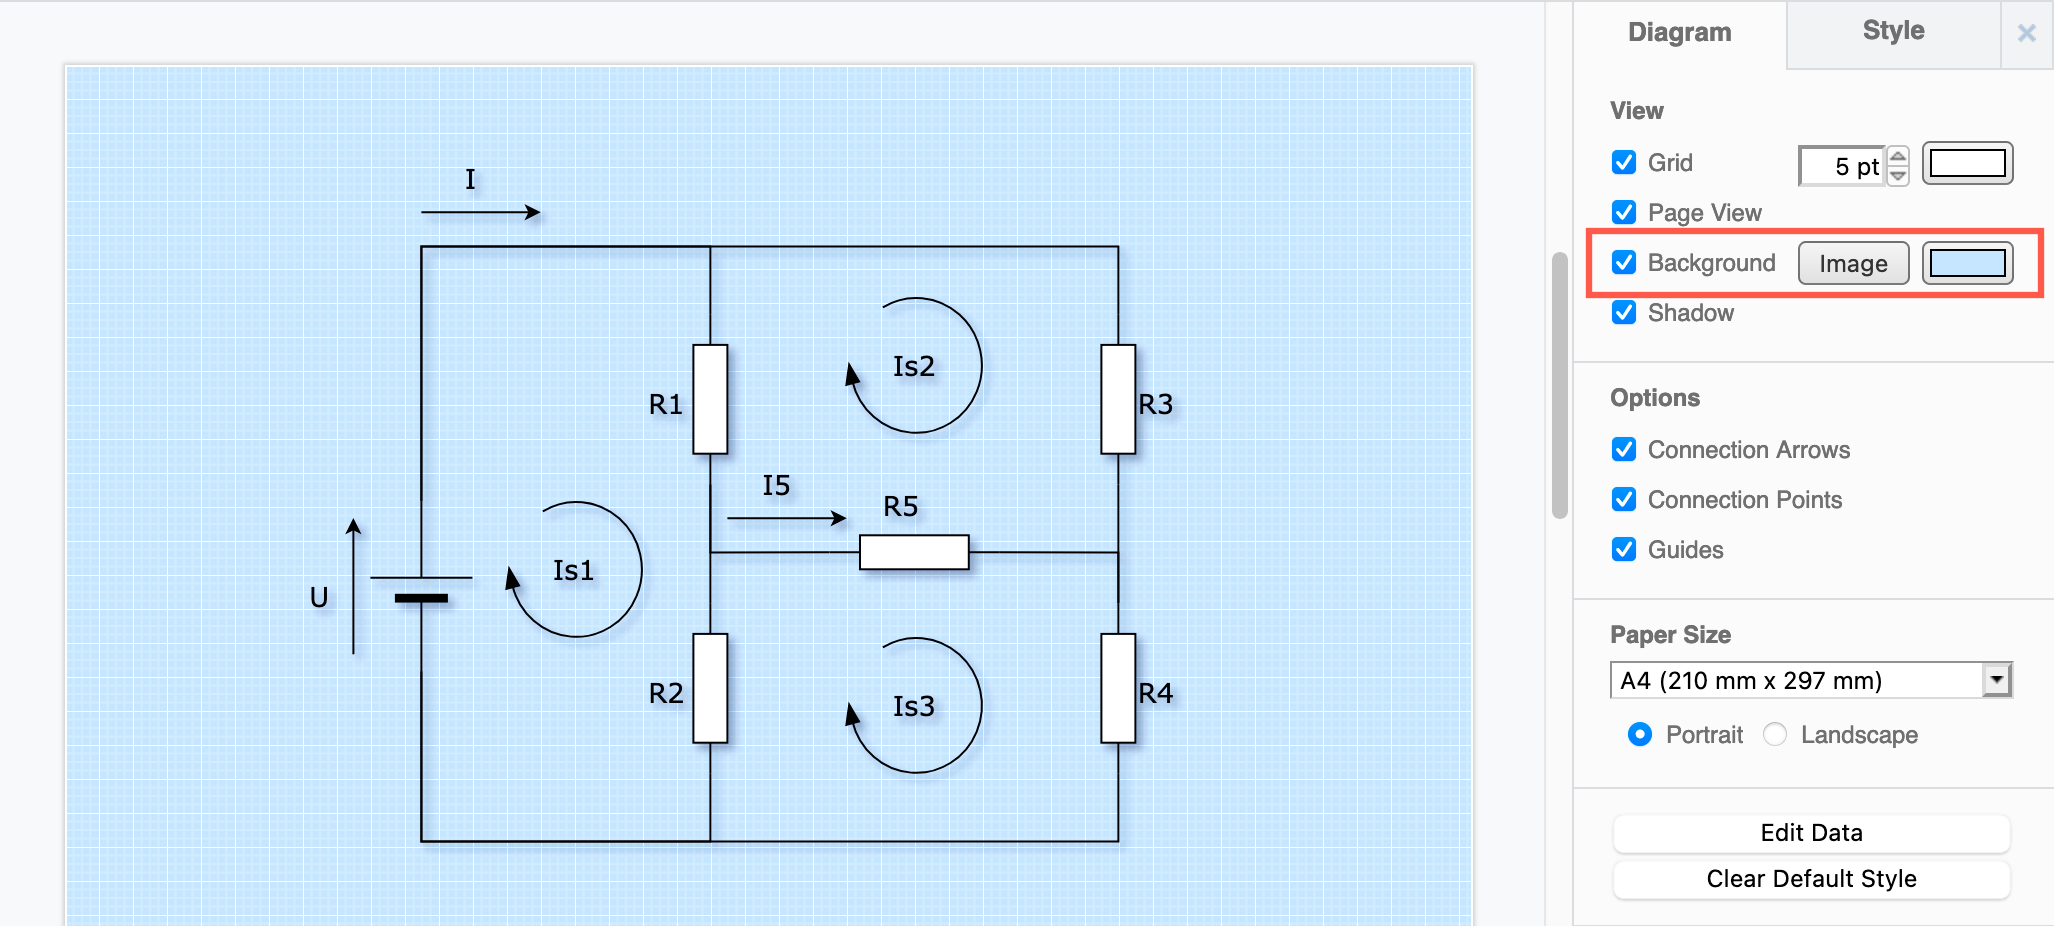
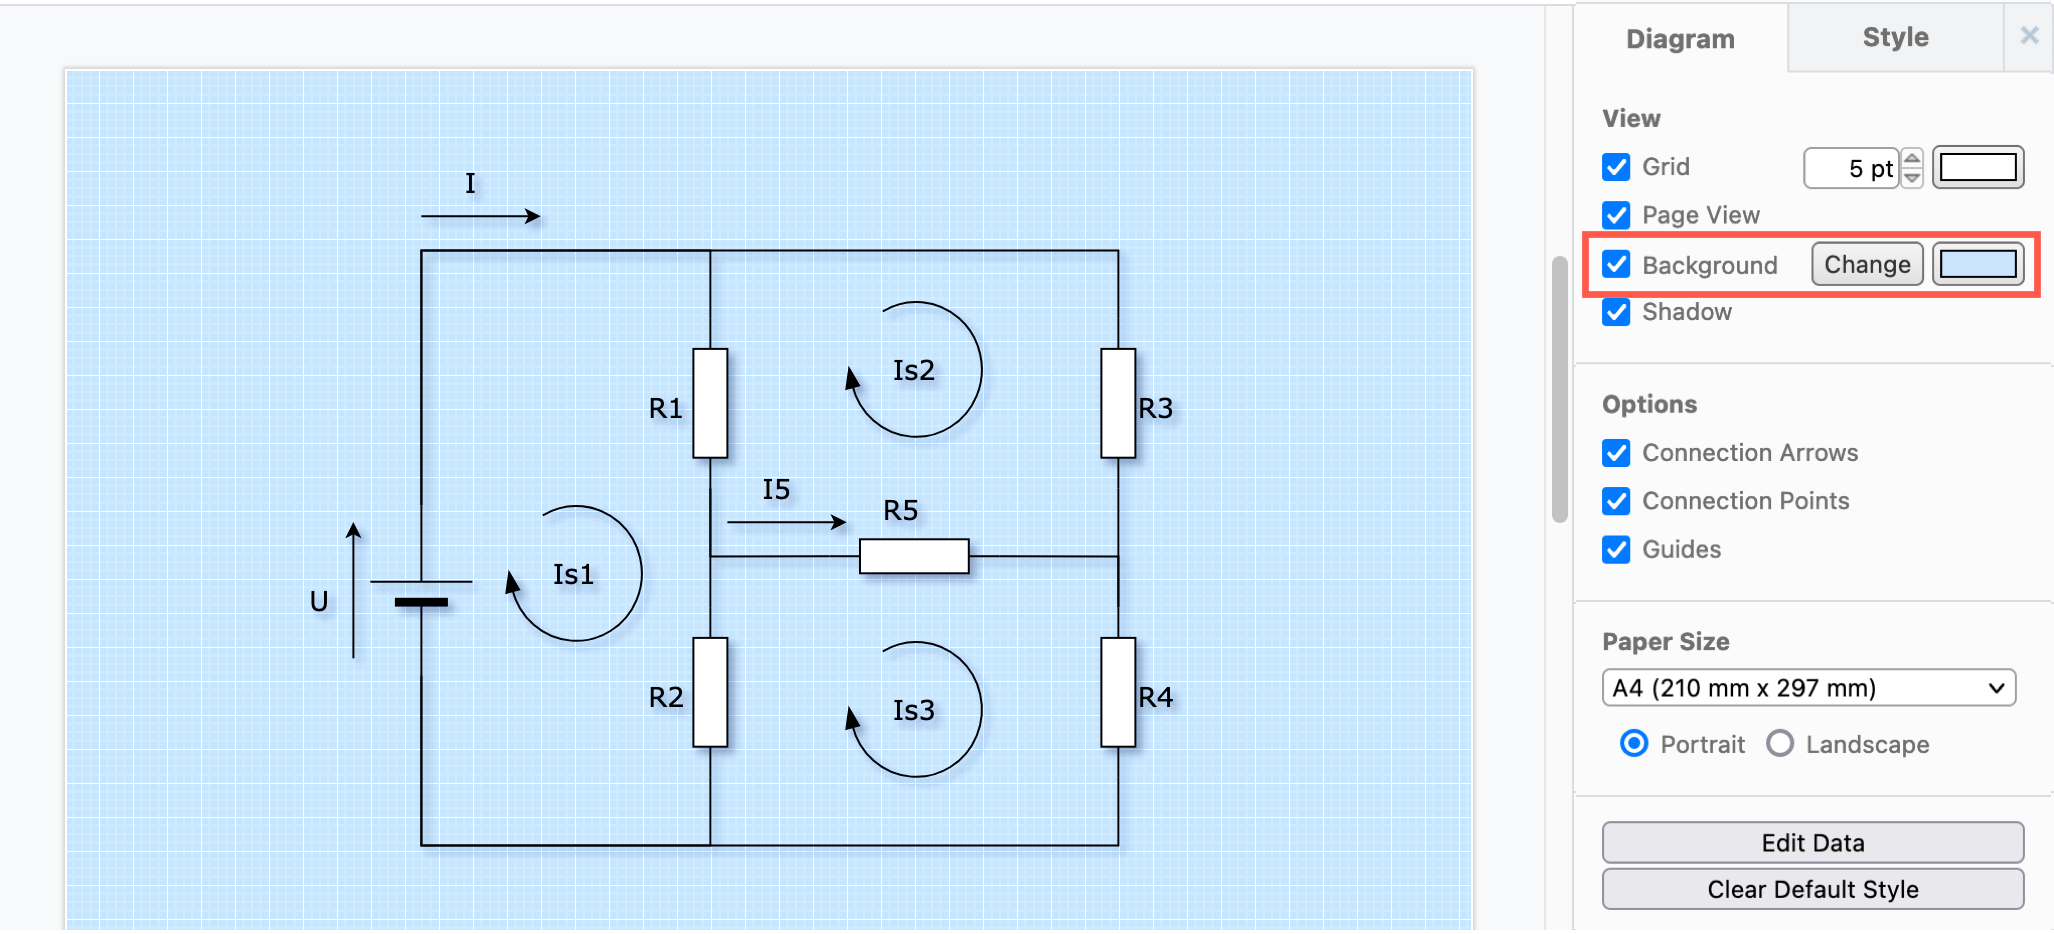
FAQ updates

diff --git a/doc/faq/background-diagram.md b/doc/faq/background-diagram.md
@@ -1,0 +1,33 @@
+---
+title: Use a diagram page as a background image
+layout: page
+faq: true
+categories: [Features]
+---
+
+You can set your diagram background to be a [solid colour](/doc/faq/background-colour.html), an [image file](/doc/faq/background-image.html) or one of the pages in your diagram.
+
+This is useful when you have a repeating design, logo or watermark that you want to continue throughout all of your diagram pages when they are embedded or printed. It can also be used to display fixed user interface elements so you can easily mockup various layouts without needing to add them to every diagram page.
+
+**Note:** Your diagram must have at least two pages for this option to appear. See how to [work with multi-page diagrams](blog/multiple-page-diagrams.html).
+
+1. Create your background image on one diagram page. Any interactive elements, such as [links](/doc/faq/custom-links.html) and [tooltips](/doc/faq/tooltips.html), that are in the diagram page that you use as a background will not be available.
+<br /><img src="/assets/img/blog/background-diagram-add-page.png" style="width=100%;max-width:600px;height:auto;" alt="Add another page to your diagram">
+2. Add another diagram page by clicking ``+`` at the bottom of the drawing canvas.
+3. On the new diagram page, make sure nothing is selected to see the _Diagram_ tab in the format panel on the right.
+<br /><img src="/assets/img/blog/background-option.png" style="width=100%;max-width:150px;height:auto;" alt="Click Change next to Background to open a dialog where you can select the background diagram page">
+4. Select the checkbox next to the list - this will only appear if your diagram has two or more pages - and select the diagram page in the list that you want to use as the background image.
+<br /><img src="/assets/img/blog/background-diagram-page-set.png" style="width=100%;max-width:250px;height:auto;" alt="Open the background image settings and select the diagram page you want to use as the background">
+5. The selected diagram page will be converted to an image and placed as the background of your current page. You can now add shapes over the background.
+<br /><img src="/assets/img/blog/background-diagram-example-mockup.png" style="width=100%;max-width:400px;height:auto;" alt="Add shapes on top of the background image">
+
+Shapes, connectors and text in the background can not be selected, tooltips that were in the background diagram will not appear when you hover, and links are not available. 
+
+## Do more with background diagrams
+
+Add text labels with placeholders which automatically update depending on their context in your diagram, and use a background diagram to provide the non-dynamic aspects. This is good for adding dates, page numbers, version numbers and more. 
+
+<a href="https://app.diagrams.net/?lightbox=1&highlight=0000ff&edit=_blank&layers=1&nav=1&title=background-page.drawio#Uhttps%3A%2F%2Fraw.githubusercontent.com%2Fjgraph%2Fdrawio-diagrams%2Fmaster%2Fblog%2Fbackground-page.drawio" target="_blank"><img src="/assets/img/blog/diagram-with-background.png" style="max-width:100%;height:auto;" alt="Diagram complete with background"></a>
+<br />[_Open this example in the diagrams.net viewer_](https://app.diagrams.net/?lightbox=1&highlight=0000ff&edit=_blank&layers=1&nav=1&title=background-page.drawio#Uhttps%3A%2F%2Fraw.githubusercontent.com%2Fjgraph%2Fdrawio-diagrams%2Fmaster%2Fblog%2Fbackground-page.drawio)
+
+[Learn more about using background diagrams in the diagrams.net and draw.io apps](/blog/background-pages-diagrams.html)

diff --git a/doc/faq/background-image-delete.md b/doc/faq/background-image-delete.md
@@ -8,7 +8,7 @@ categories: [Features]
 You can remove a [background image](/doc/faq/background-image.html) from your diagram via the format panel.
 
 1. Make sure nothing is selected in your diagram to see the _Diagram_ tab in the format panel. 
-2. Click on _Image_ next to the _Background_ checkbox.
-<br /><img src="/assets/img/blog/background-image-format-panel.png" style="width=100%;max-width:200px;height:auto;" alt="Click on Image in the format to open the background image dialog">
+2. Click on _Change_ next to the _Background_ checkbox.
+<br /><img src="/assets/img/blog/background-option.png" style="width=100%;max-width:200px;height:auto;" alt="Click on Image in the format to open the background image dialog">
 3. Click on _Reset_ to remove the existing background image, then on _Apply_ to save your changes.
 <br /><img src="/assets/img/blog/background-image-reset.png" style="width=100%;max-width:300px;height:auto;" alt="Reset the background image to remove it from your diagram">

diff --git a/doc/faq/background-image.md b/doc/faq/background-image.md
@@ -10,7 +10,8 @@ Instead of the default transparent background in your diagram or a [solid backgr
 **Note:** Only use images in your diagram and background that you have a license to use.
 
 1. Make sure nothing is selected in your diagram to see the _Diagram_ tab in the format panel.
-2. Click on _Image_ next to _Background_ in the _View_ settings. 
+2. Click on _Change_ next to _Background_ in the _View_ settings. 
+<br /><img src="/assets/img/blog/background-option.png" style="width=100%;max-width:250px;height:auto;" alt="Click Change next to Background to select an image to use as a diagram background">
 3. Drag the image file onto the dialog, or enter the URL in the text fieldThe _Width_ and _Height_ are added automatically - change these if you want to resize the background image.
 <br /><img src="/assets/img/blog/background-image-dialog.png" style="width=100%;max-width:250px;height:auto;" alt="Set an image to use as your diagram's background">
 4. Click _Apply_.

diff --git a/_posts/2021-08-26-background-pages-diagrams.md b/_posts/2021-08-26-background-pages-diagrams.md
@@ -44,7 +44,7 @@ And the first page now contains the second page as a non-selectable background (
 
 ## Create a Template
 
-If you are using draw.io for Confluence you could add templates of your background pages in both [cloud](https://www.diagrams.net/doc/faq/custom-templates-confluence-cloud) and [data centre](https://www.diagrams.net/doc/faq/custom-templates-confluence-server).
+If you are using draw.io for Confluence you could add templates of your background pages in both [Cloud](https://www.diagrams.net/doc/faq/custom-templates-confluence-cloud) and [Data Center](https://www.diagrams.net/doc/faq/custom-templates-confluence-server).
 
 If you are storing your diagrams in Google Drive, you could create a background pages folder in your shared team drive that users can copy and use as a basis for their own diagrams.
 
